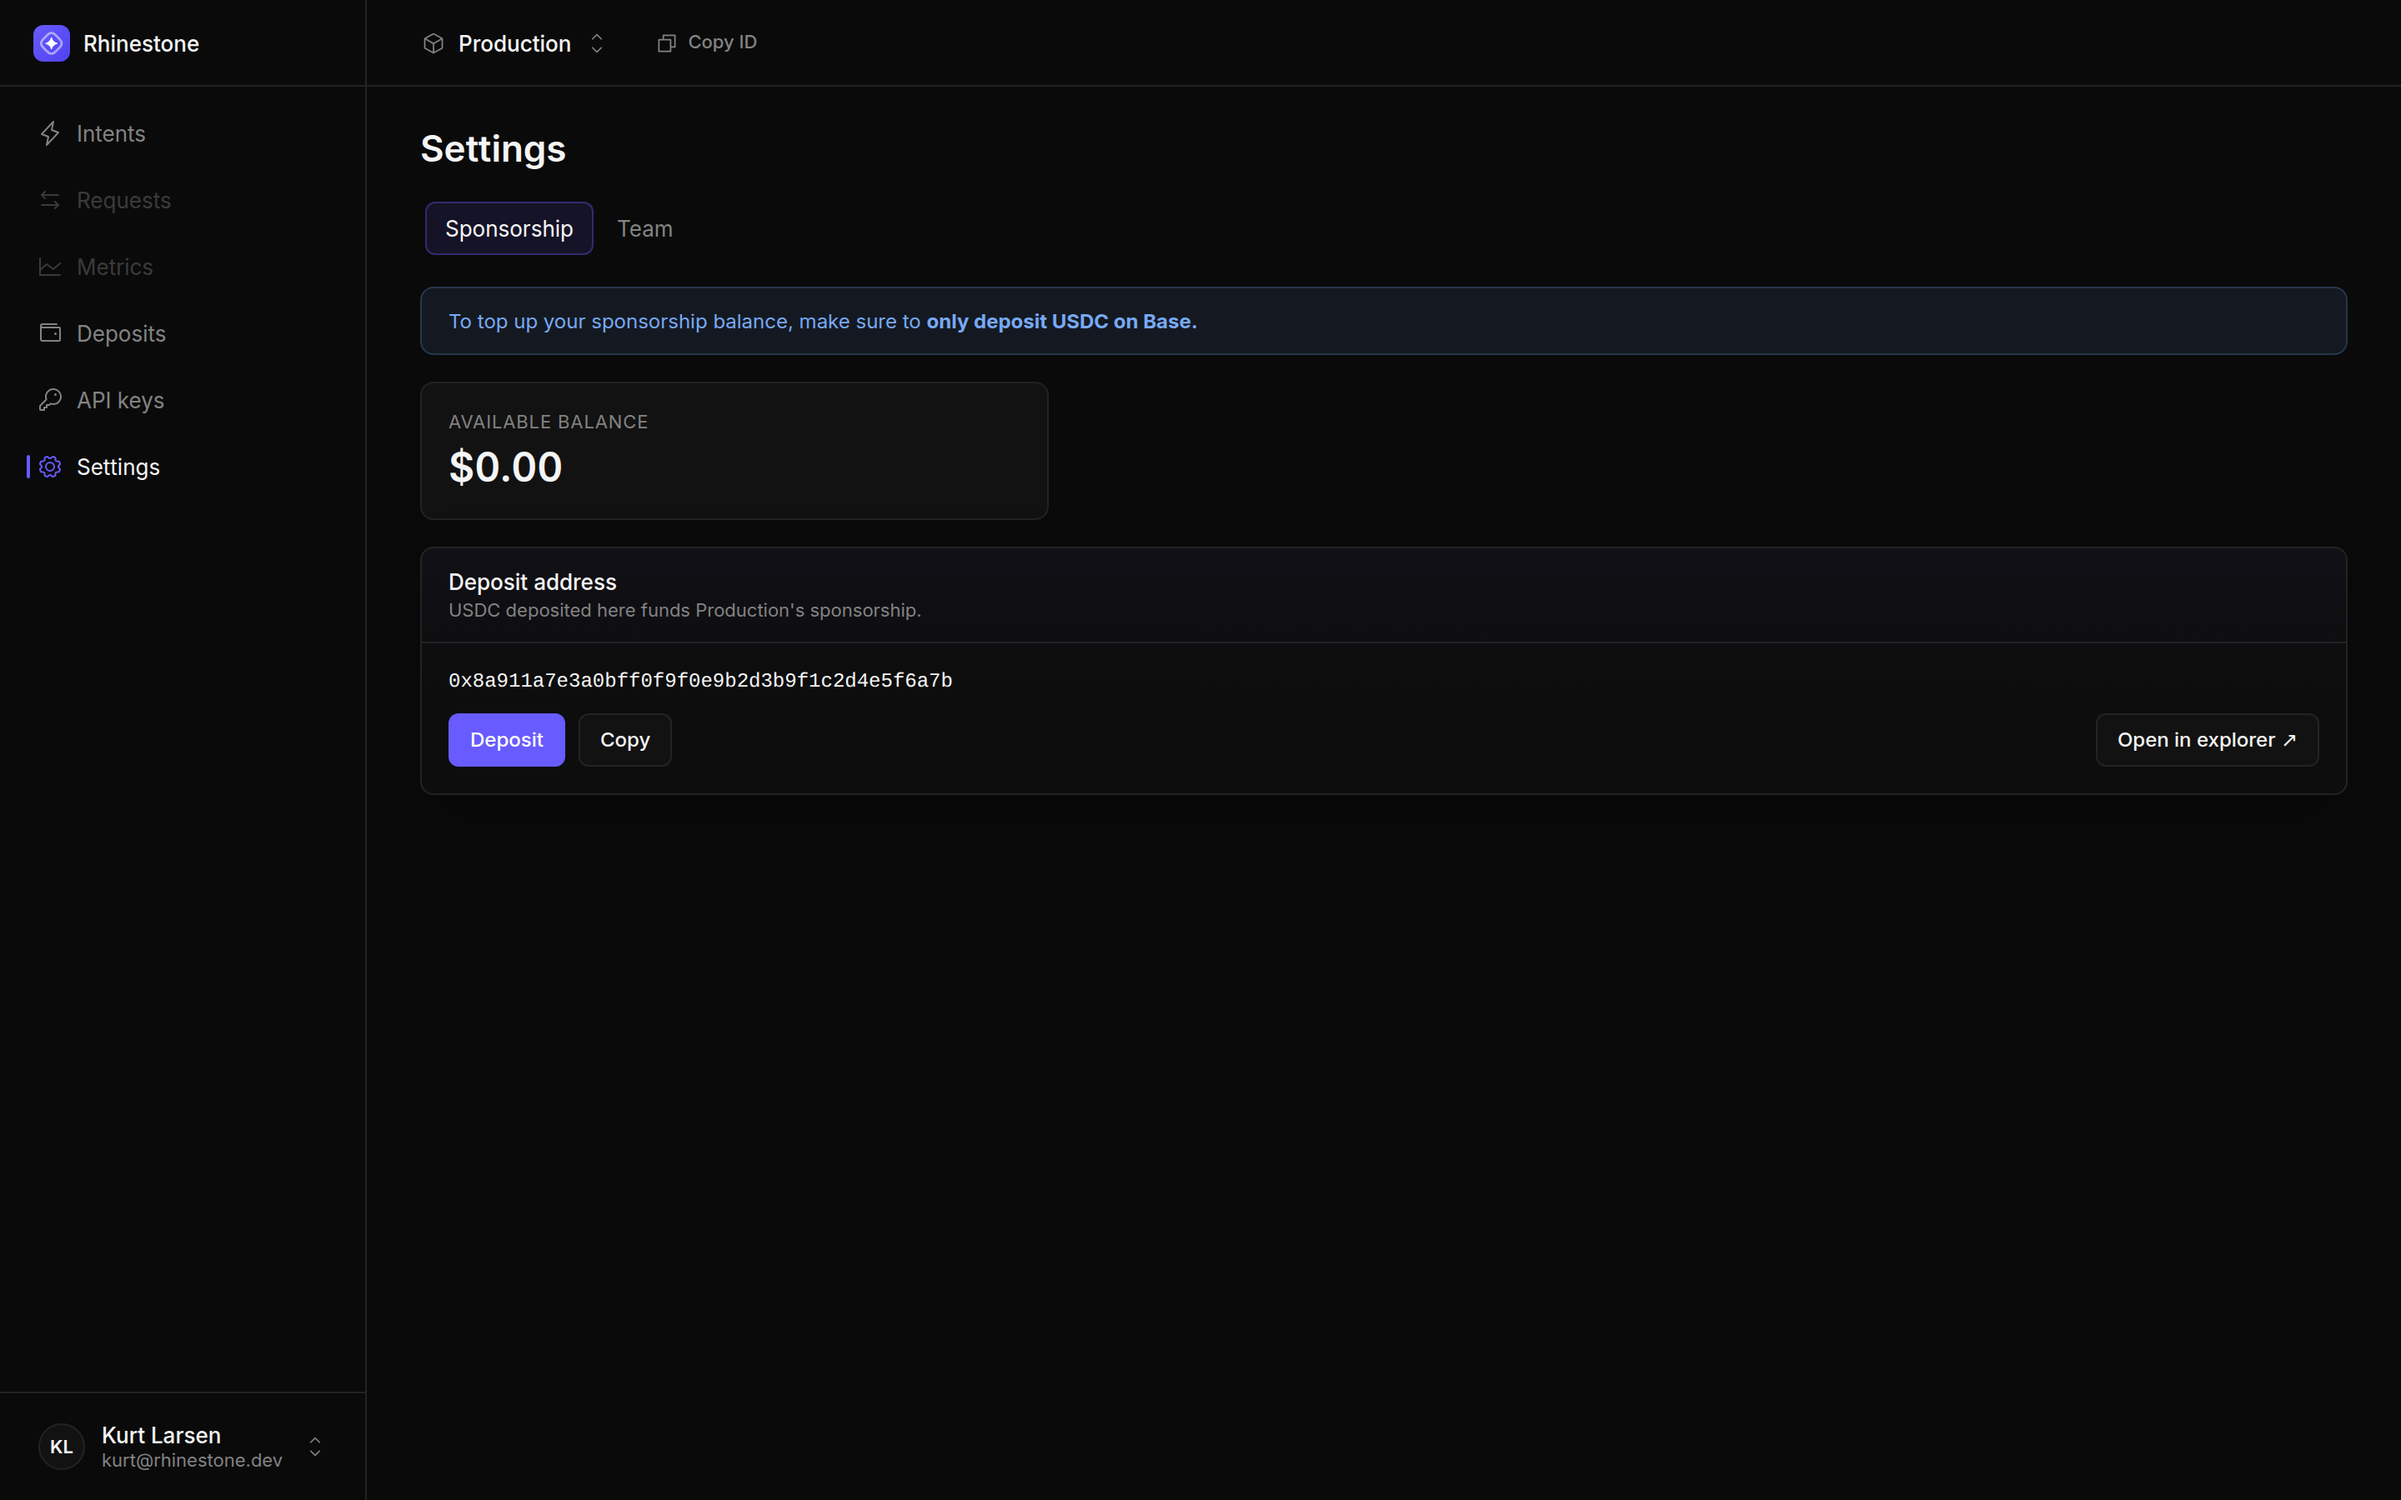
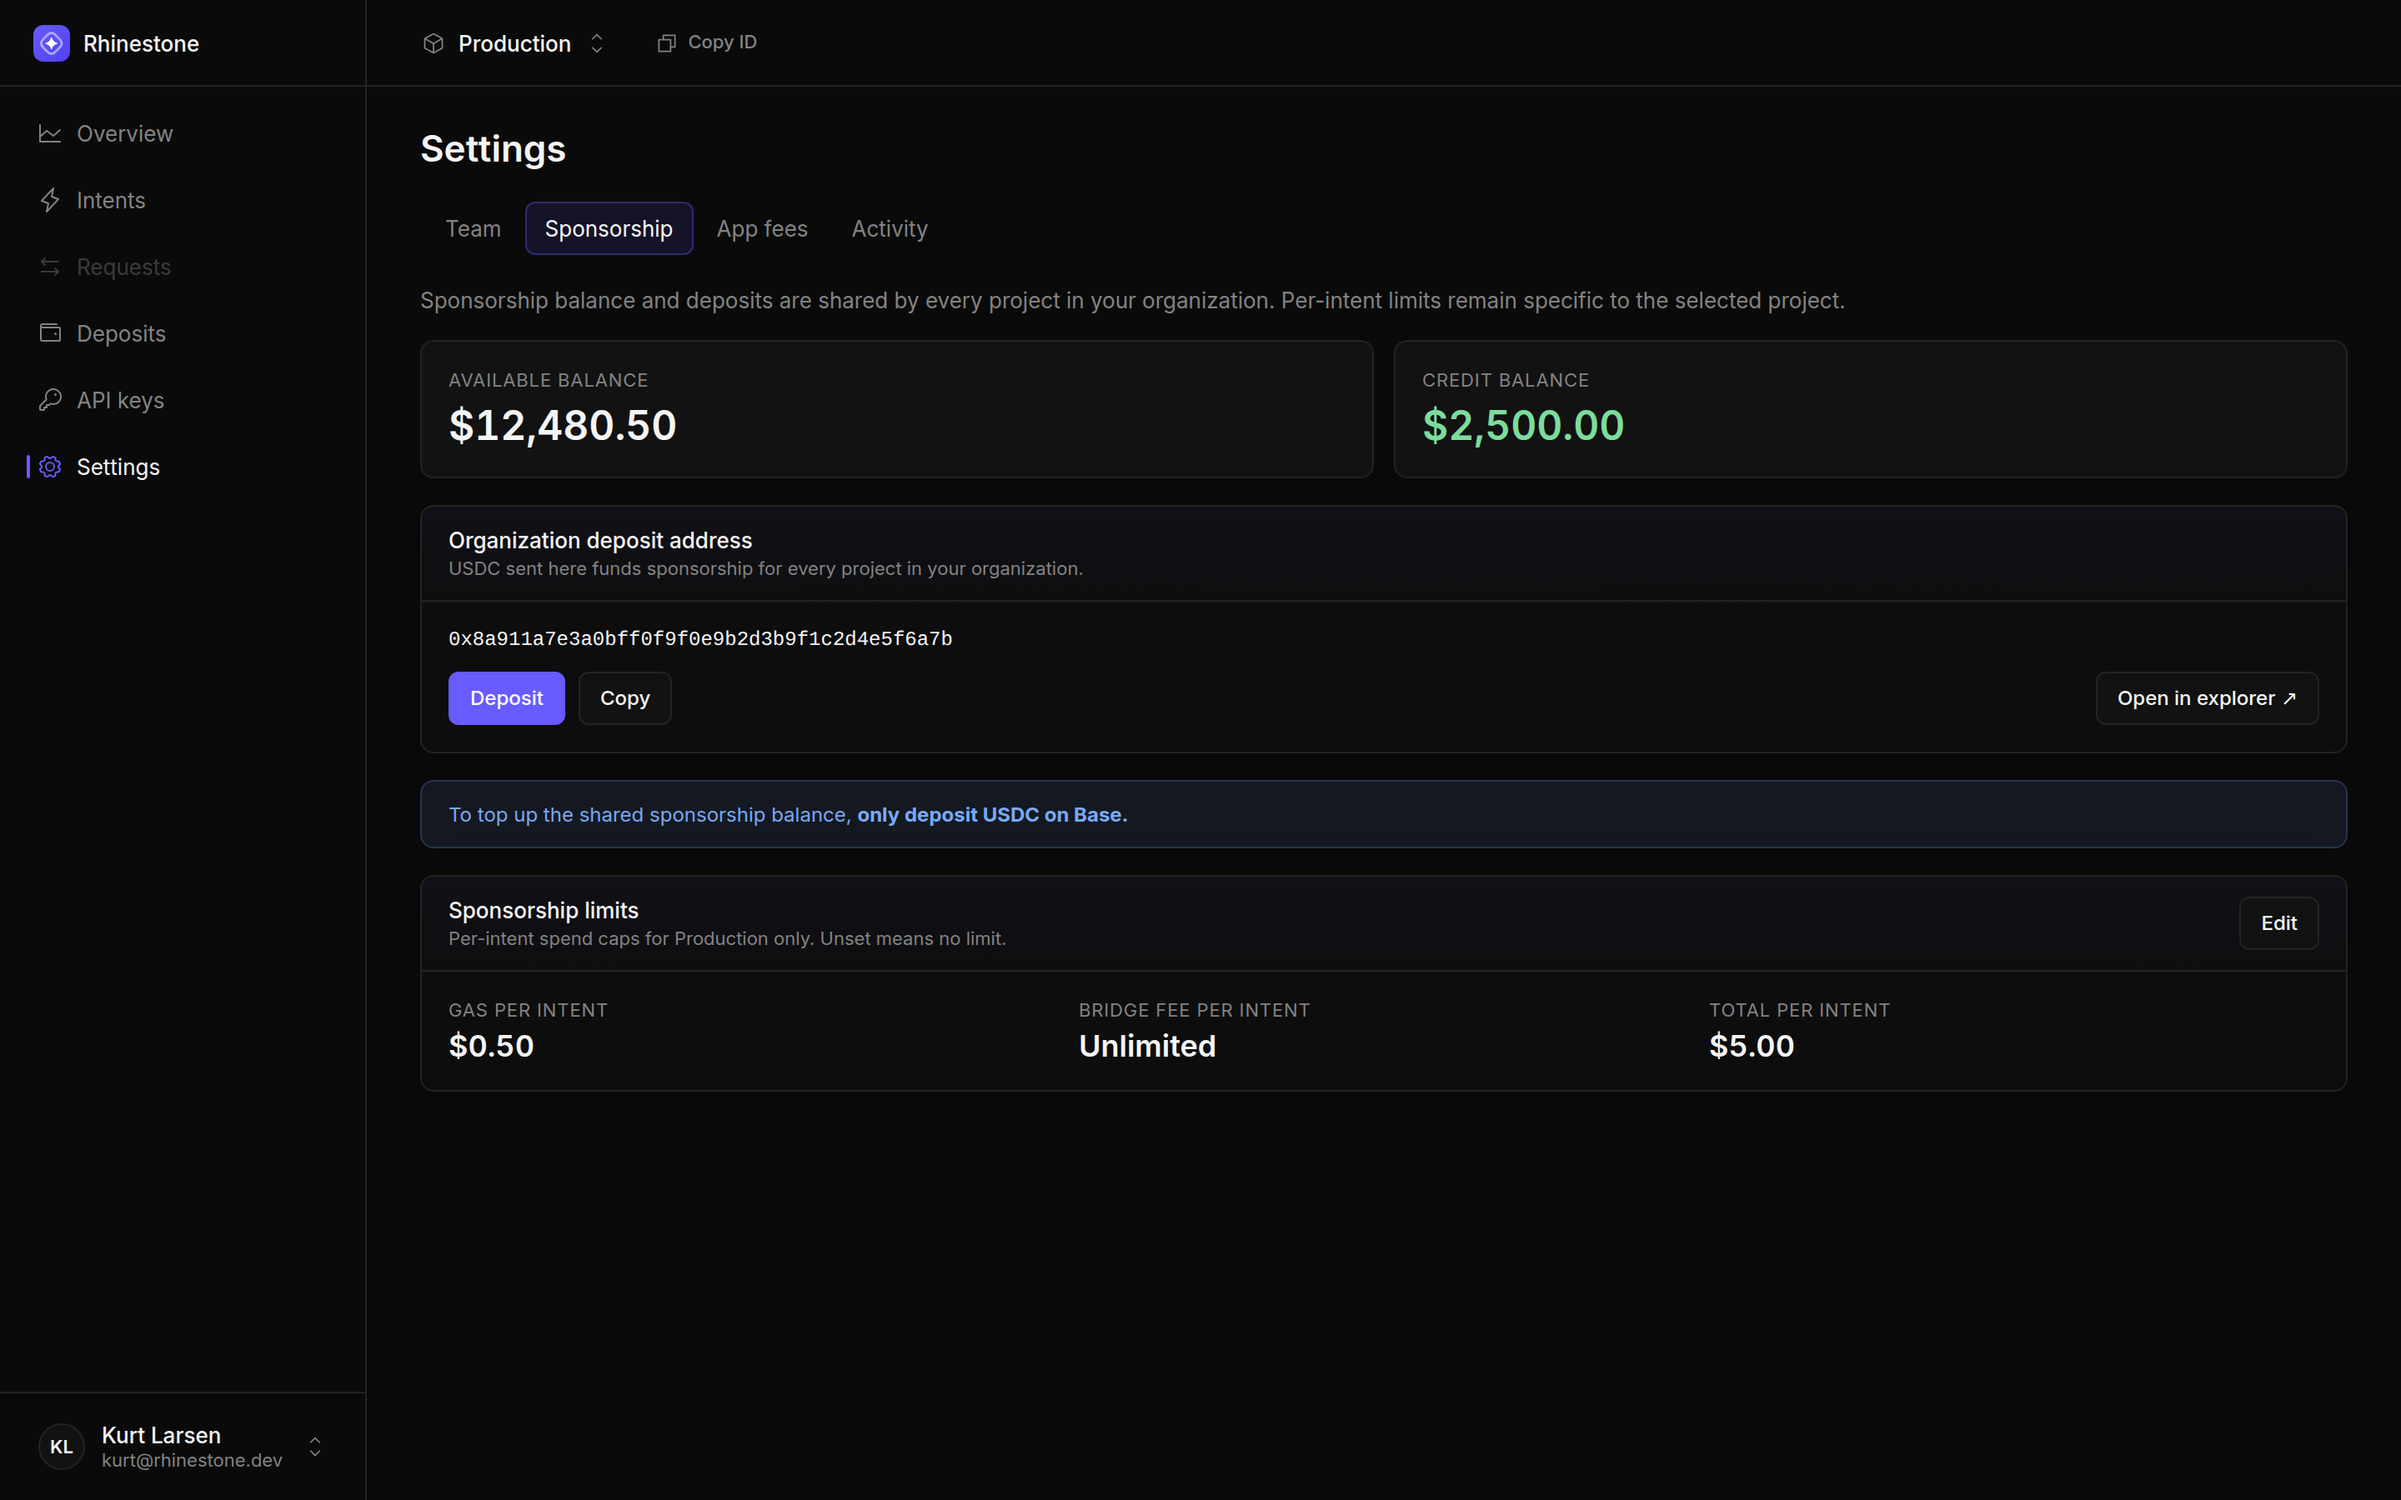
docs: capture the organization sponsorship view
Point the screenshot mock at GET /users/me/org/sponsorship with a funded
fixture (plus a policy-config fixture, without which the limits panel throws
mid-render), fix the swapped settings routes in the capture script, and add a
SHOTS= group filter for scoped re-captures. Re-embed the refreshed balance
screenshot in the sponsorship guide.

diff --git a/.claude/skills/update-screenshots/scripts/mock-user-service.ts b/.claude/skills/update-screenshots/scripts/mock-user-service.ts
@@ -63,9 +63,21 @@ const JWT_KEYS = [
   { id: 'jwt_prod', kid: 'prod-2026-06', integratorId: 'rhinestone', algorithm: 'ES256', enabled: true, createdAt: ago(5 * DAY) },
 ]
 
-const SPONSORSHIPS = [
-  { projectId: PROJECT_ID, address: '0x8a911a7e3a0bff0f9f0e9b2d3b9f1c2d4e5f6a7b', pendingDisbursements: 0, credits: '0' },
-]
+// Balances are micro-USD strings (1_000_000 = $1), as user-service serves them.
+// `provisioned` + a non-null `address` gate the funding actions; PROJECT_ID must
+// appear in `projects` or the limits panel renders its empty state.
+const ORG_SPONSORSHIP = {
+  orgId: ORG_ID,
+  provisioned: true,
+  address: '0x8a911a7e3a0bff0f9f0e9b2d3b9f1c2d4e5f6a7b',
+  balance: { total: '12480500000', credits: '2500000000', spent: '7519500000', creditLimit: '5000000000' },
+  projects: [{ projectId: PROJECT_ID }],
+}
+
+// Per-intent caps in plain USD (null renders as "Unlimited"). Required: with
+// sponsorship configured the page fetches this, and the catch-all's undefined
+// caps throw while rendering.
+const POLICY_CONFIG = { gasLimitPerIntentUsd: 0.5, bridgeFeeLimitPerIntentUsd: null, limitPerIntentUsd: 5, version: 3 }
 
 const USDC_BASE = '0x833589fCD6eDb6E08f4c7C32D4f71b54bdA02913'
 const USDC_ARB = '0xaf88d065e77c8cC2239327C5EDb3A432268e5831'
@@ -138,7 +150,8 @@ Bun.serve({
     if (p === '/users/me/projects' && m === 'GET') return json([PROJECT])
     if (p === '/users/me/org' && m === 'GET') return json(ORG)
     if (p === '/users/me/invite') return json({ message: 'no invite' }, 404)
-    if (p === '/users/me/sponsorships') return json(SPONSORSHIPS)
+    if (p === '/users/me/org/sponsorship' && m === 'GET') return json(ORG_SPONSORSHIP)
+    if (p.endsWith('/policy-config') && m === 'GET') return json(POLICY_CONFIG)
     if (p === '/users/me/deposits' && m === 'GET') return json({ deposits: DEPOSITS, nextCursor: null })
     if (p === '/users/me/deposits/stats') return json(DEPOSIT_STATS)
     if (p.endsWith('/integrator-keys') && m === 'GET') return json(JWT_KEYS)

diff --git a/.claude/skills/update-screenshots/SKILL.md b/.claude/skills/update-screenshots/SKILL.md
@@ -25,24 +25,23 @@ Why this works: dashboard auth is entirely client-side — `pages/Main.vue` only
 
 2. **Disable the Vue devtools plugin** in the dashboard's `vite.config.ts` (comment out `VueDevTools()`). Otherwise its floating "V" pill appears in every full-page shot. **Remember to restore it after.** (CSS-hiding the host element does not work — it renders in a shadow root.)
 
-3. **Point the dashboard at the mock.** In the dashboard `.env`:
+3. **Point the dashboard at the mock.** In the dashboard's `apps/console/.env`:
    ```
    VITE_USER_SERVICE_BASE_URL=http://localhost:3000
    VITE_APP_BASE_URL=http://localhost:5173
    ```
-   Set the mock org's `ORG_ID` (in `scripts/mock-user-service.ts`) equal to `VITE_RHINESTONE_ORG_ID` to show the brand mark.
 
 4. **Boot both servers.** Background them with `setsid` (see Gotchas):
    ```bash
    setsid bash -c 'bun run <skill>/scripts/mock-user-service.ts >/tmp/mock.log 2>&1' </dev/null >/dev/null 2>&1 &
-   cd "$DASHBOARD_DIR" && setsid bash -c 'bun run dev >/tmp/dash.log 2>&1' </dev/null >/dev/null 2>&1 &
+   cd "$DASHBOARD_DIR" && setsid bash -c "bun run --filter '@dashboard/console' dev >/tmp/dash.log 2>&1" </dev/null >/dev/null 2>&1 &
    sleep 4
    curl -s -o /dev/null -w 'mock:%{http_code} ' http://localhost:3000/users/me
    curl -s -o /dev/null -w 'dash:%{http_code}\n' http://localhost:5173/
    ```
    Both should report `200`.
 
-5. **Capture.** `node <skill>/scripts/shoot.mjs` — writes PNGs into `images/dashboard/<guide>/` (auto-resolved relative to the skill; override with `SCREENSHOT_OUT`). It prints `OK`/`FAIL` per shot.
+5. **Capture.** `node <skill>/scripts/shoot.mjs` — writes PNGs into `images/dashboard/<guide>/` (auto-resolved relative to the skill; override with `SCREENSHOT_OUT`). It prints `OK`/`FAIL` per shot. To refresh one guide without touching the others, scope the run: `SHOTS=sponsorship node <skill>/scripts/shoot.mjs` (comma-separated groups: `access`, `api-keys`, `team`, `jwt-keys`, `deposits`, `sponsorship`).
 
 6. **Review every shot** by reading the PNGs. Check: auth passed (not stuck on `/login`), data populated, correct dialog, no stray toasts, dark theme. Re-run after fixing the mock data or the script.
 
@@ -59,6 +58,7 @@ Role-gated controls (Create key, scopes editor, Refund) only render when the moc
 - **Backgrounding:** use `setsid bash -c '…' </dev/null &`. A plain `&` (or a harness "run in background") gets the server killed by a signal (exit 144) when the launching turn ends.
 - **Killing servers:** never `pkill -f "vite"` / `pgrep -f "vite"` — the pattern matches the shell running your own command and kills it (also exit 144). Find the PID (`pgrep -af vite`) and `kill <pid>`.
 - **Playwright MCP** leaves a stale chrome `SingletonLock` ("Browser is already in use"). This skill drives Playwright via a script instead — don't mix the two.
+- **Route drift:** check each shot's path against the dashboard router (`apps/console/src/main.ts`) before re-shooting. The settings routes already swapped once (`/settings` is Team, `/settings/sponsorship` is Sponsorship), which silently pointed the sponsorship shot at another page.
 - **CORS:** the mock must reflect the dashboard origin and `Access-Control-Allow-Credentials: true`, and answer `OPTIONS` (the service sets `Content-Type` on GETs, triggering preflight). Already handled in `scripts/mock-user-service.ts`.
 
 ## Files
